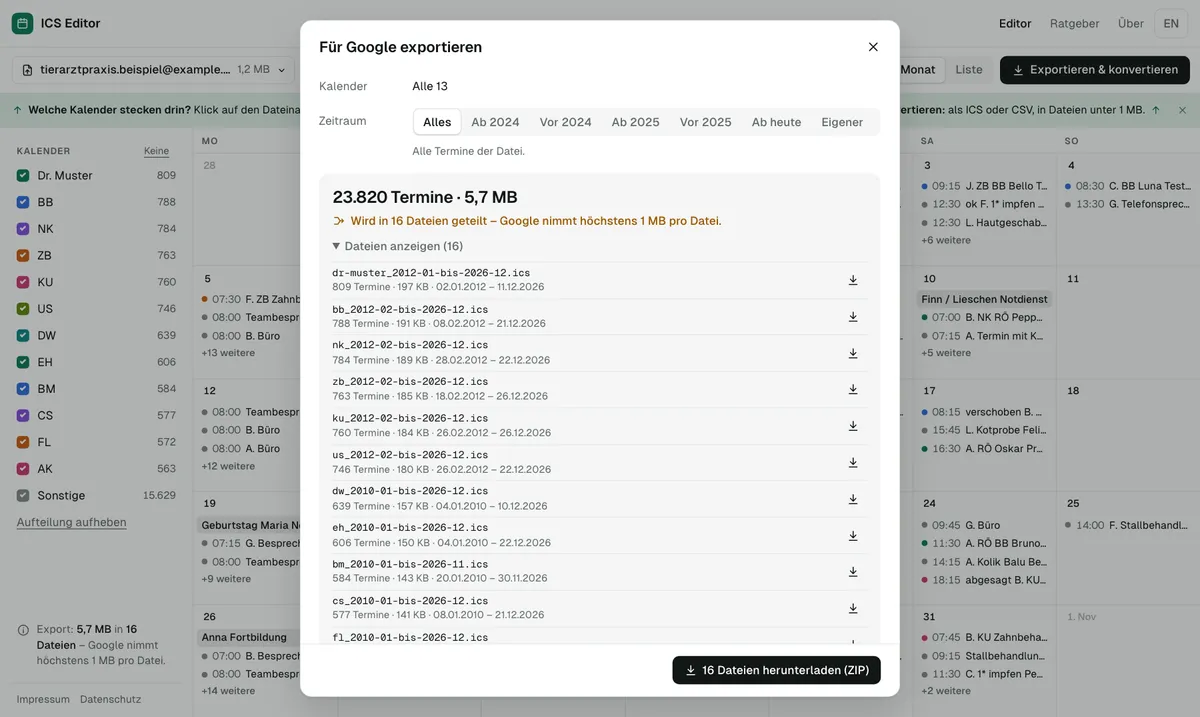
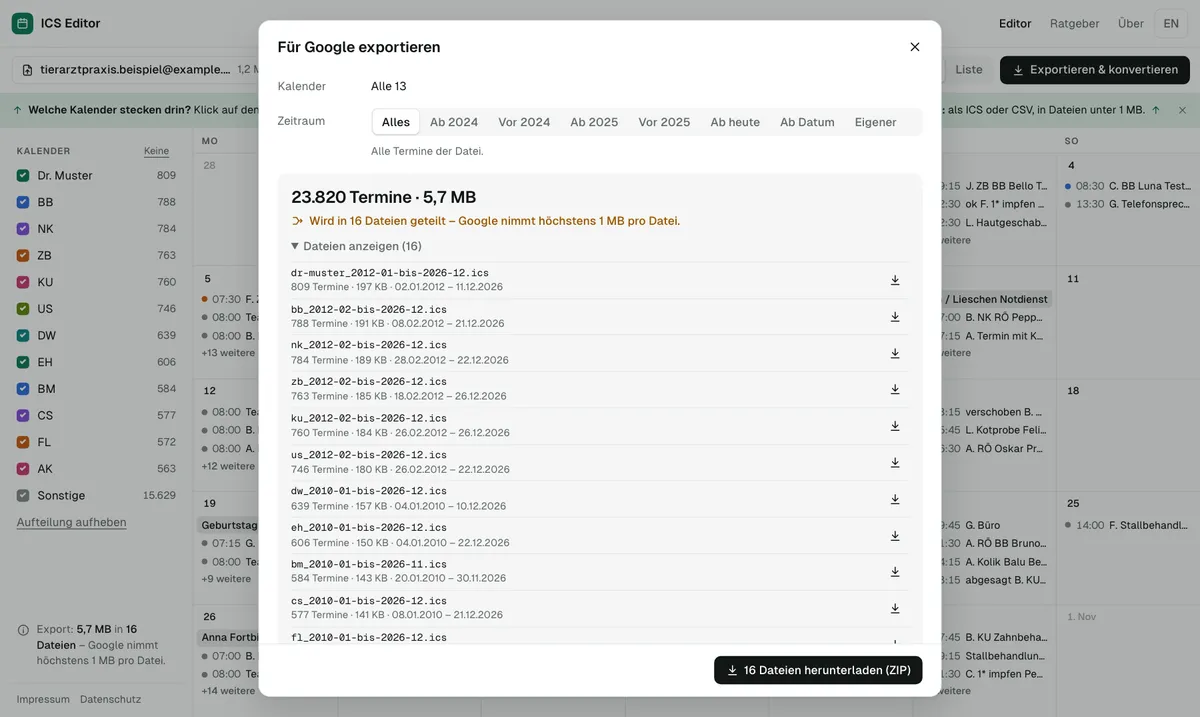
Export: Zeitraum „Ab Datum“ mit Schnelltasten
- Neuer Knopf „Ab Datum“: ein Datumsfeld, exportiert alles ab diesem Tag inkl. kommender Termine
- Schnelltasten: Anfang dieses Monats, Anfang Vormonat, Anfang dieses Jahres, Anfang Vorjahr
- Export-Fenster etwas breiter, Browser-Test, Bildschirmfotos

Changed region(s): [[0.2158, 0.0307, 0.8017, 0.9819]]

diff --git a/src/components/tool/Export.tsx b/src/components/tool/Export.tsx
@@ -9,11 +9,21 @@ import { H, Icon, useT } from './ui';
 import { Modal } from './Dialogs';
 
 /** Zeitraum: fromN/beforeN beziehen sich auf das Jahr (aktuelles Jahr − N), z. B. 2026 − 2 = „Ab 2024“ / „Vor 2024“. */
-export type Range = 'all' | 'from2' | 'before2' | 'from1' | 'before1' | 'future' | 'custom';
-const RANGES: Range[] = ['all', 'from2', 'before2', 'from1', 'before1', 'future', 'custom'];
-const rangeYear = (r: Range) => new Date().getFullYear() - (r.endsWith('2') ? 2 : 1);
-
+export type Range = 'all' | 'from2' | 'before2' | 'from1' | 'before1' | 'future' | 'fromDate' | 'custom';
+const RANGES: Range[] = ['all', 'from2', 'before2', 'from1', 'before1', 'future', 'fromDate', 'custom'];
 const isoDate = (d: Date) => `${d.getFullYear()}-${String(d.getMonth() + 1).padStart(2, '0')}-${String(d.getDate()).padStart(2, '0')}`;
+const rangeYear = (r: Range) => new Date().getFullYear() - (r.endsWith('2') ? 2 : 1);
+/** Schnelltasten für „Ab Datum“ */
+function startDates(): { label: 'k.s.monthStart' | 'k.s.lastMonthStart' | 'k.s.yearStart' | 'k.s.lastYearStart'; date: string }[] {
+  const now = new Date(), y = now.getFullYear(), m = now.getMonth();
+  return [
+    { label: 'k.s.monthStart', date: isoDate(new Date(y, m, 1)) },
+    { label: 'k.s.lastMonthStart', date: isoDate(new Date(y, m - 1, 1)) },
+    { label: 'k.s.yearStart', date: `${y}-01-01` },
+    { label: 'k.s.lastYearStart', date: `${y - 1}-01-01` }
+  ];
+}
+
 /** Schnellauswahl für den eigenen Zeitraum, vom heutigen Tag aus gerechnet */
 function quickRanges(): { label: 'k.q.thisMonth' | 'k.q.lastMonth' | 'k.q.last3m' | 'k.q.last12m' | 'k.q.thisYear' | 'k.q.lastYear'; from: string; to: string; y?: number }[] {
   const now = new Date(), y = now.getFullYear(), m = now.getMonth();
@@ -28,8 +38,8 @@ function quickRanges(): { label: 'k.q.thisMonth' | 'k.q.lastMonth' | 'k.q.last3m
   ];
 }
 
-export interface ExportOpts { range: Range; from: string; to: string; years: number[]; max999: boolean; admin: boolean; cancelled: boolean; dupes: boolean; phones: boolean; desc: boolean; uids: boolean; format: Format }
-export const DEFAULT_EXPORT: ExportOpts = { range: 'all', from: '', to: '', years: [], max999: false, admin: true, cancelled: false, dupes: false, phones: false, desc: false, uids: false, format: 'ics' };
+export interface ExportOpts { range: Range; fromDate: string; from: string; to: string; years: number[]; max999: boolean; admin: boolean; cancelled: boolean; dupes: boolean; phones: boolean; desc: boolean; uids: boolean; format: Format }
+export const DEFAULT_EXPORT: ExportOpts = { range: 'all', fromDate: '', from: '', to: '', years: [], max999: false, admin: true, cancelled: false, dupes: false, phones: false, desc: false, uids: false, format: 'ics' };
 
 const statusWords = (loaded: Loaded) => (loaded.suggestions.find((s) => s.kind === 'status')?.values ?? []).filter((v) => v.value !== 'STATUS:CANCELLED');
 
@@ -40,7 +50,7 @@ export function exportRequest(o: ExportOpts, sel: Selection, split: SplitConfig,
     selection: {
       ...ALL, today: sel.today, deleted: sel.deleted,
       years: o.range === 'custom' && o.years.length ? [...o.years].sort() : null, hidePast: o.range === 'future',
-      from: o.range.startsWith('from') ? Date.UTC(rangeYear(o.range), 0, 1) : o.range === 'custom' ? parseIsoDay(o.from) : null,
+      from: o.range === 'fromDate' ? parseIsoDay(o.fromDate) : o.range.startsWith('from') ? Date.UTC(rangeYear(o.range), 0, 1) : o.range === 'custom' ? parseIsoDay(o.from) : null,
       to: o.range.startsWith('before') ? Date.UTC(rangeYear(o.range) - 1, 11, 31) : o.range === 'custom' ? parseIsoDay(o.to) : null,
       dropCancelled: o.cancelled, dropWords: o.cancelled ? statusWords(loaded).map((v) => v.value) : [], dedupe: o.dupes
     },
@@ -94,7 +104,7 @@ export function ExportDialog({ open, onClose, loaded, plan, opts, setOpts, req, 
     <label class="ck"><input type="checkbox" checked={opts[k]} onChange={(e) => set(k, (e.target as HTMLInputElement).checked)} /><span>{label}</span><span class="muted">{hint}</span></label>
   );
   return (
-    <Modal open={open} onClose={onClose} title={t('k.ex.title')} wide foot={
+    <Modal open={open} onClose={onClose} title={t('k.ex.title')} wide cls="export" foot={
       <>
         <span class="grow" />
         <button type="button" class="btn primary" disabled={!main || !!busy} onClick={main}>
@@ -114,9 +124,19 @@ export function ExportDialog({ open, onClose, loaded, plan, opts, setOpts, req, 
         <div class="xl" id="ex-range">{t('k.ex.range')}</div>
         <div class="stack-sm">
           <div class="seg" role="group" aria-labelledby="ex-range">
-            {RANGES.map((r) => <button type="button" aria-pressed={opts.range === r} onClick={() => set('range', r)}>{t(r === 'all' ? 'k.ex.all' : r.startsWith('from') ? 'k.ex.fromY' : r.startsWith('before') ? 'k.ex.beforeY' : r === 'future' ? 'k.ex.future' : 'k.ex.custom', { y: rangeYear(r) })}</button>)}
+            {RANGES.map((r) => <button type="button" aria-pressed={opts.range === r} onClick={() => setOpts({ ...opts, range: r, fromDate: r === 'fromDate' && !opts.fromDate ? startDates()[0].date : opts.fromDate })}>{t(r === 'all' ? 'k.ex.all' : r === 'fromDate' ? 'k.ex.fromDate' : r.startsWith('from') ? 'k.ex.fromY' : r.startsWith('before') ? 'k.ex.beforeY' : r === 'future' ? 'k.ex.future' : 'k.ex.custom', { y: rangeYear(r) })}</button>)}
           </div>
           <div class="muted small">{t(('k.ex.hint.' + opts.range.replace(/\d$/, '')) as 'k.ex.hint.all', { y: rangeYear(opts.range), last: rangeYear(opts.range) - 1, d: d(req.selection.today) })}</div>
+          {opts.range === 'fromDate' && (
+            <div class="custom">
+              <div class="dates">
+                <label>{t('k.ex.fromLabel')} <input type="date" value={opts.fromDate} onChange={(e) => set('fromDate', (e.target as HTMLInputElement).value)} /></label>
+              </div>
+              <div class="qchips">
+                {startDates().map((q) => <button type="button" aria-pressed={opts.fromDate === q.date} onClick={() => set('fromDate', q.date)}>{t(q.label)}</button>)}
+              </div>
+            </div>
+          )}
           {opts.range === 'custom' && (
             <div class="custom">
               <div class="dates">

diff --git a/tests/e2e/tool.spec.ts b/tests/e2e/tool.spec.ts
@@ -187,6 +187,26 @@ test('Export: eigener Zeitraum mit Jahren und Datum', async ({ page }) => {
   await expect(big).not.toHaveText(oneYear!);
 });
 
+test('Export: Ab Datum mit Schnelltasten', async ({ page }) => {
+  await sample(page);
+  await page.getByRole('button', { name: 'Exportieren' }).click();
+  const ex = page.getByRole('dialog', { name: 'Für Google exportieren' });
+  const big = ex.locator('.result .big');
+  const count = async () => Number((await big.textContent())!.match(/^([\d.]+) Termine/)![1].replace(/\./g, ''));
+  await expect(big).toContainText('Termine');
+  const all = await count();
+  await ex.getByRole('button', { name: 'Ab Datum' }).click();
+  const n = new Date();
+  const monthStart = `${n.getFullYear()}-${String(n.getMonth() + 1).padStart(2, '0')}-01`;
+  await expect(ex.getByLabel('Ab', { exact: true })).toHaveValue(monthStart);
+  await expect(ex.getByText('Alle Termine ab dem gewählten Tag')).toBeVisible();
+  await expect.poll(count).toBeLessThan(all);
+  const fromMonth = await count();
+  await ex.getByRole('button', { name: 'Anfang Vorjahr' }).click();
+  await expect(ex.getByLabel('Ab', { exact: true })).toHaveValue(`${n.getFullYear() - 1}-01-01`);
+  await expect.poll(count).toBeGreaterThan(fromMonth);
+});
+
 test('Export: Ab und Vor ein Jahr ergänzen sich zu allen Terminen', async ({ page }) => {
   await sample(page);
   await page.getByRole('button', { name: 'Exportieren' }).click();

diff --git a/src/styles/site.css b/src/styles/site.css
@@ -311,6 +311,7 @@ html.studio-mode .tool-shell { position: fixed; top: var(--hh); left: 0; right: 
 /* Dialoge */
 dialog.dlg { border: 1px solid var(--line); border-radius: 14px; padding: 0; background: var(--bg); color: var(--text); box-shadow: var(--shadow); width: min(580px, calc(100vw - 32px)); max-height: calc(100vh - 48px); font-size: 14px; line-height: 1.45; }
 dialog.dlg.wide { width: min(720px, calc(100vw - 32px)); }
+dialog.dlg.export { width: min(820px, calc(100vw - 32px)); }
 dialog.dlg[open] { display: flex; flex-direction: column; }
 dialog.dlg::backdrop { background: var(--scrim); }
 .dh { display: flex; align-items: center; justify-content: space-between; gap: 12px; padding: 14px 14px 4px 22px; }
@@ -427,7 +428,7 @@ dialog.dlg::backdrop { background: var(--scrim); }
   .list { padding: 0 12px 24px; }
   .day { grid-template-columns: 1fr; gap: 0; }
   .row { grid-template-columns: 16px 80px 8px minmax(0, 1fr); gap: 8px; padding: 0 4px; }
-  dialog.dlg, dialog.dlg.wide { width: 100vw; max-width: 100vw; height: 100%; max-height: 100%; border-radius: 0; margin: 0; border: 0; }
+  dialog.dlg, dialog.dlg.wide, dialog.dlg.export { width: 100vw; max-width: 100vw; height: 100%; max-height: 100%; border-radius: 0; margin: 0; border: 0; }
   .xr { grid-template-columns: 1fr; gap: 6px; }
   .xl { padding: 0; }
   .kz { grid-template-columns: 15px minmax(30px, max-content) minmax(0, 1fr) 48px; gap: 8px; }

diff --git a/src/components/tool/Dialogs.tsx b/src/components/tool/Dialogs.tsx
@@ -9,7 +9,7 @@ import { CheckTab, ColumnsTab, PrivacyTab, type TableProps } from './Editor';
 import { bestSuggestion } from './Studio';
 import type { UiKey } from '../../i18n/ui';
 
-export function Modal({ open, onClose, title, children, foot, wide = false }: { open: boolean; onClose: () => void; title: string; children: ComponentChildren; foot?: ComponentChildren; wide?: boolean }) {
+export function Modal({ open, onClose, title, children, foot, wide = false, cls = '' }: { open: boolean; onClose: () => void; title: string; children: ComponentChildren; foot?: ComponentChildren; wide?: boolean; cls?: string }) {
   const { t } = useT();
   const ref = useRef<HTMLDialogElement>(null);
   useEffect(() => {
@@ -19,7 +19,7 @@ export function Modal({ open, onClose, title, children, foot, wide = false }: { 
     if (!open && d.open) d.close();
   }, [open]);
   return (
-    <dialog ref={ref} class={'dlg' + (wide ? ' wide' : '')} aria-label={title} onClose={onClose}
+    <dialog ref={ref} class={'dlg' + (wide ? ' wide' : '') + (cls ? ' ' + cls : '')} aria-label={title} onClose={onClose}
       onClick={(e) => { if (e.target === ref.current) onClose(); }}>
       {open && <>
         <div class="dh"><h2>{title}</h2><button type="button" class="ib" aria-label={t('k.close')} onClick={onClose}><Icon name="x" size={18} /></button></div>

diff --git a/src/i18n/ui.ts b/src/i18n/ui.ts
@@ -120,6 +120,13 @@ const de = {
   'k.ex.hint.custom': 'Wähle ganze Jahre oder ein eigenes Von–Bis.',
   'k.ex.future': 'Ab heute',
   'k.ex.custom': 'Eigener',
+  'k.ex.fromDate': 'Ab Datum',
+  'k.ex.fromLabel': 'Ab',
+  'k.ex.hint.fromDate': 'Alle Termine ab dem gewählten Tag – dazu alle kommenden. Ältere bleiben weg.',
+  'k.s.monthStart': 'Anfang dieses Monats',
+  'k.s.lastMonthStart': 'Anfang Vormonat',
+  'k.s.yearStart': 'Anfang dieses Jahres',
+  'k.s.lastYearStart': 'Anfang Vorjahr',
   'k.ex.quick': 'Schnellauswahl',
   'k.q.thisMonth': 'Dieser Monat',
   'k.q.lastMonth': 'Vormonat',
@@ -721,6 +728,13 @@ const en: Dict = {
   'k.ex.hint.custom': 'Pick whole years or your own from–to.',
   'k.ex.future': 'From today',
   'k.ex.custom': 'Custom',
+  'k.ex.fromDate': 'From date',
+  'k.ex.fromLabel': 'From',
+  'k.ex.hint.fromDate': 'Every event from the chosen day on – plus all upcoming ones. Older ones are left out.',
+  'k.s.monthStart': 'Start of this month',
+  'k.s.lastMonthStart': 'Start of last month',
+  'k.s.yearStart': 'Start of this year',
+  'k.s.lastYearStart': 'Start of last year',
   'k.ex.quick': 'Quick picks',
   'k.q.thisMonth': 'This month',
   'k.q.lastMonth': 'Last month',
